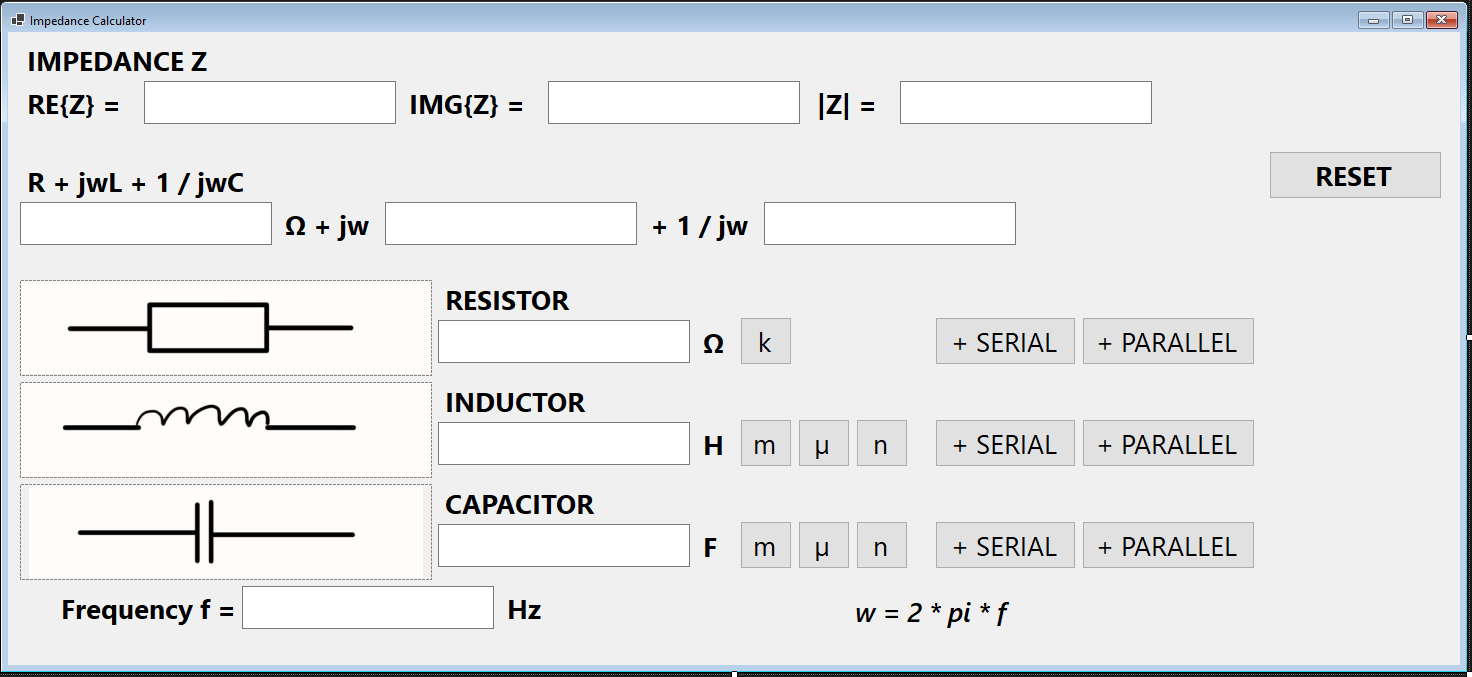
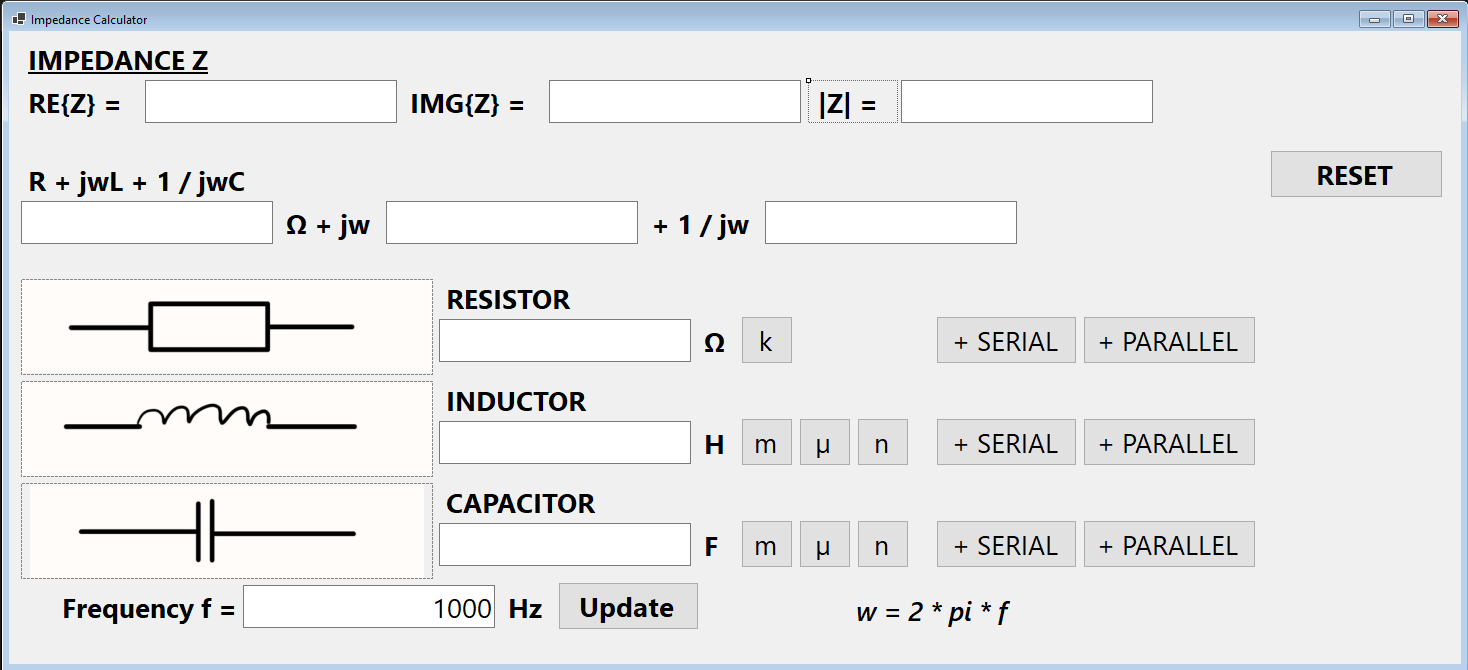
update images

diff --git a/ImpedanceCalculator/ImpedanceCalculator/Form1.Designer.cs b/ImpedanceCalculator/ImpedanceCalculator/Form1.Designer.cs
@@ -81,7 +81,7 @@
             // label2
             // 
             label2.AutoSize = true;
-            label2.Font = new Font("Segoe UI", 20.25F, FontStyle.Bold, GraphicsUnit.Point, 0);
+            label2.Font = new Font("Segoe UI", 20.25F, FontStyle.Bold | FontStyle.Underline, GraphicsUnit.Point, 0);
             label2.Location = new Point(12, 9);
             label2.Name = "label2";
             label2.Size = new Size(197, 37);
